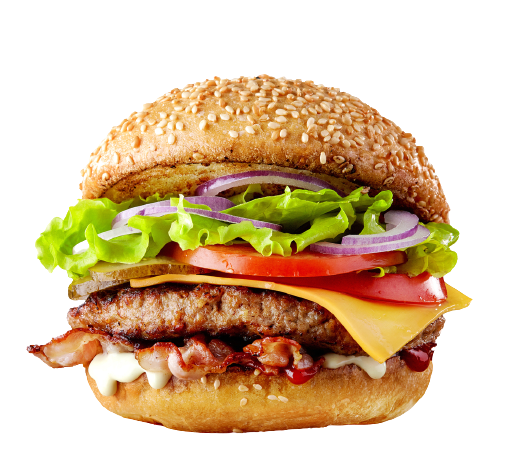
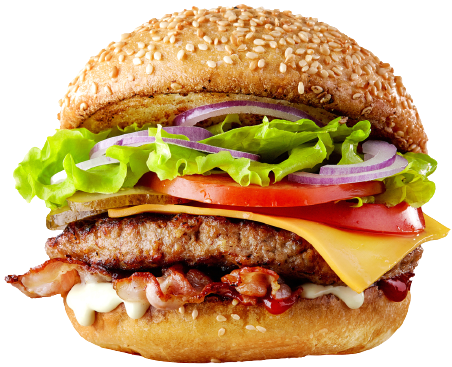
Секция order

diff --git a/index.html b/index.html
@@ -60,43 +60,71 @@
         <section class="food">
             <div class="container">
                 <ul class="food__list">
-                    <li class="food__item">
-                        <div class="food__img-wrap">
-                            <img src="img/content/chicke-paella.jpg" alt="chicke-paella" class="food__img">
+                    <li class="food__item dish">
+                        <div class="dish__img-wrap">
+                            <img src="img/content/chicken-paella.jpg" alt="chicke-paella" class="dish__img">
                         </div>
-                        <h3 class="food__dish-title">Chicken Paella</h3>
-                        <div class="food__dish-desc">
-                            We just don't make and sell food.Good food warms.
-                        </div>
-                    </li>
-                    <li class="food__item">
-                        <div class="food__img-wrap">
-                            <img src="img/content/chicke-paella.jpg" alt="chicke-paella" class="food__img">
-                        </div>
-                        <h3 class="food__dish-title">Chicken Paella</h3>
-                        <div class="food__dish-desc">
-                            We just don't make and sell food.Good food warms.
+                        <div class="dish__desc">
+                            <h3 class="dish__title">Chicken Paella</h3>
+                            <div class="dish__text paragraph">
+                                We just don't make and sell food.Good food warms.
+                            </div>
                         </div>
                     </li>
-                    <li class="food__item">
-                        <div class="food__img-wrap">
-                            <img src="img/content/chicke-paella.jpg" alt="chicke-paella" class="food__img">
+                    <li class="food__item dish">
+                        <div class="dish__img-wrap">
+                            <img src="img/content/chicken-paella.jpg" alt="chicke-paella" class="dish__img">
                         </div>
-                        <h3 class="food__dish-title">Chicken Paella</h3>
-                        <div class="food__dish-desc">
-                            We just don't make and sell food.Good food warms.
+                        <div class="dish__desc">
+                            <h3 class="dish__title">Chicken Paella</h3>
+                            <div class="dish__text paragraph">
+                                We just don't make and sell food.Good food warms.
+                            </div>
                         </div>
                     </li>
-                    <li class="food__item">
-                        <div class="food__img-wrap">
-                            <img src="img/content/chicke-paella.jpg" alt="chicke-paella" class="food__img">
+                    <li class="food__item dish">
+                        <div class="dish__img-wrap">
+                            <img src="img/content/chicken-paella.jpg" alt="chicke-paella" class="dish__img">
                         </div>
-                        <h3 class="food__dish-title">Chicken Paella</h3>
-                        <div class="food__dish-desc">
-                            We just don't make and sell food.Good food warms.
+                        <div class="dish__desc">
+                            <h3 class="dish__title">Chicken Paella</h3>
+                            <div class="dish__text paragraph">
+                                We just don't make and sell food.Good food warms.
+                            </div>
+                        </div>
+                    </li>
+                    <li class="food__item dish">
+                        <div class="dish__img-wrap">
+                            <img src="img/content/chicken-paella.jpg" alt="chicke-paella" class="dish__img">
+                        </div>
+                        <div class="dish__desc">
+                            <h3 class="dish__title">Chicken Paella</h3>
+                            <div class="dish__text paragraph">
+                                We just don't make and sell food.Good food warms.
+                            </div>
                         </div>
                     </li>
                 </ul>
+            </div>
+        </section>
+        <section class="order">
+            <div class="container">
+                <div class="order__content">
+                    <div class="order__img-wrap order__column">
+                        <img src="img/content/burger-king.png" alt="burger-king" class="order__img">
+                    </div>
+                    <div class="order__info order__column">
+                        <h2 class="order__title">Burger King</h2>
+                        <div class="order__text paragraph">
+                            Together with McDonald’s, Burger King has grown to become synonymous with burgers in the US.
+                        </div>
+                        <div class="price order__price">
+                            <span class="price__new">$6</span>
+                            <span class="price__old">$8</span>
+                        </div>
+                        <button class="btn">ORDER NOW</button>
+                    </div>
+                </div>
             </div>
         </section>
     </div>

diff --git a/css/style.css b/css/style.css
@@ -92,6 +92,7 @@ img {
 .btn {
     background-color: #F6762C;
     border-radius: 5px;
+    border: none;
     font-weight: 500;
     font-size: 16px;
     color: #FFFFFF;
@@ -133,16 +134,116 @@ img {
     margin-bottom: 42px;
 }
 
-.food {}
+.food {
+    padding: 115px 0px 102px;
+}
 
-.food__list {}
+.food__list {
+    display: flex;
+    justify-content: space-between;
+}
 
-.food__item {}
+.food__item {
+    width: 23%;
 
-.food__img-wrap {}
+}
 
-.food__img {}
+.dish {
+    background: #312F30;
+    border-radius: 10px;
+    overflow: hidden;
+}
 
-.food__dish-title {}
+.dish__img-wrap {
+    height: 172px;
+    width: 100%;
+    overflow: hidden;
 
-.food__dish-desc {}
+}
+
+.dish__img {
+    height: 100%;
+    width: 100%;
+    object-fit: cover;
+}
+
+.dish__desc {
+    padding: 30px;
+    text-align: center;
+}
+
+.dish__title {
+    font-weight: 500;
+    font-size: 20px;
+    line-height: 23px;
+    margin-bottom: 13px;
+}
+
+.dish__text {}
+
+.paragraph {
+    font-weight: 400;
+    font-size: 16px;
+    line-height: 19px;
+    color: rgba(255, 255, 255, 0.7);
+}
+
+.order {
+    padding: 73px 0px 85px;
+    background: #312F30;
+}
+
+.order__content {
+    display: flex;
+    align-items: center;
+
+}
+
+.order__column {
+    width: 50%;
+}
+
+.order__img-wrap {}
+
+.order__img {}
+
+.order__info {
+    max-width: 371px;
+    margin-left: 98px;
+}
+
+.order__title {
+    font-weight: 500;
+    font-size: 44.2px;
+    line-height: 52px;
+    margin-bottom: 24px;
+}
+
+.order__text {
+    margin-bottom: 13px;
+}
+
+.price {
+    font-weight: 500;
+}
+
+.order__price {
+    margin-bottom: 11px;
+}
+
+.price__new {
+    font-size: 20px;
+    line-height: 1.15;
+    letter-spacing: 0.1em;
+    color: #F6762C;
+}
+
+.price__old {
+    font-size: 16px;
+    line-height: 1.19;
+    letter-spacing: 0.1em;
+    text-decoration-line: line-through;
+    color: rgba(246, 118, 44, 0.5);
+}
+
+.btn {}
